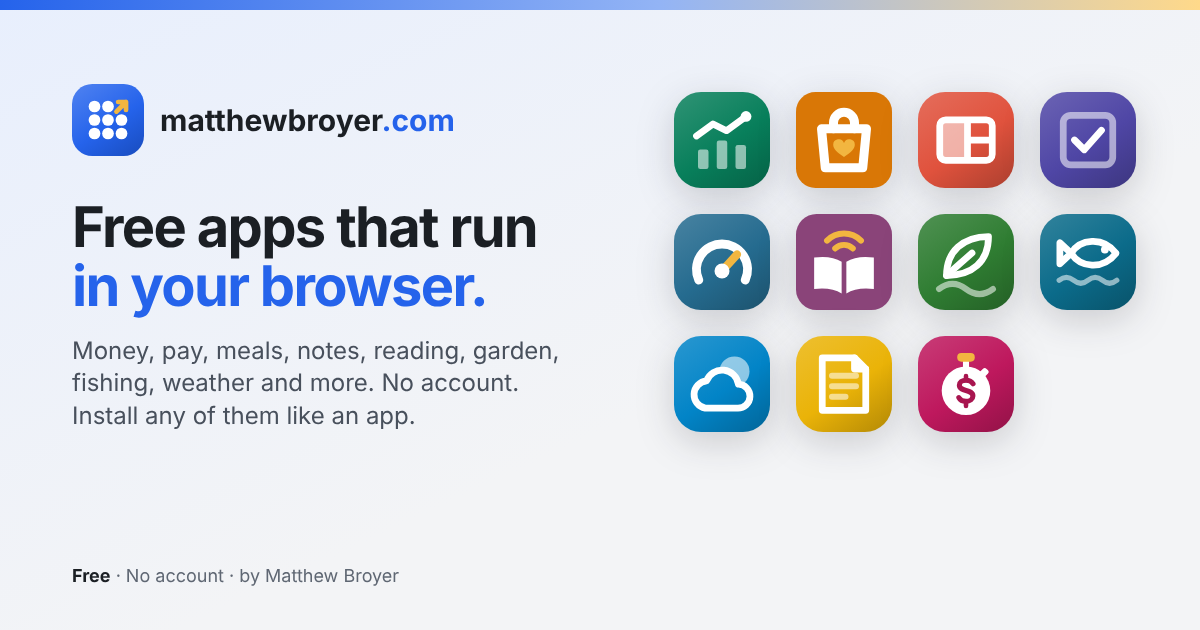
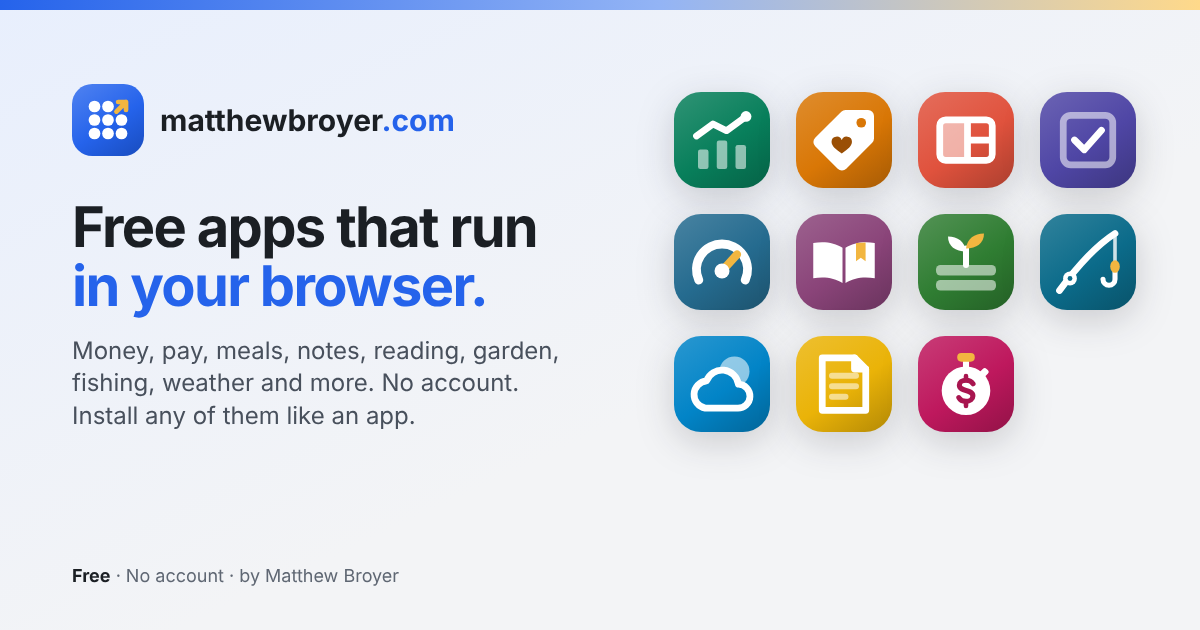
Add files via upload

diff --git a/index.html b/index.html
@@ -669,13 +669,13 @@ const APPS = [
 // Logos: each app's own favicon.svg, copied in (embedded so the hub never loads anything from the apps).
 const LOGOS = {
  mbmoney: `<svg viewBox="0 0 64 64" xmlns="http://www.w3.org/2000/svg"><defs><linearGradient id="mbmo-g1" gradientUnits="userSpaceOnUse" x1="10" y1="0" x2="54" y2="64"><stop offset="0" stop-color="#2b9172"/><stop offset=".55" stop-color="#087F5B"/><stop offset="1" stop-color="#066649"/></linearGradient><clipPath id="mbmo-c1"><rect width="64" height="64" rx="18"/></clipPath></defs><g clip-path="url(#mbmo-c1)"><rect width="64" height="64" fill="url(#mbmo-g1)"/><g transform="translate(0,2.3)"><rect x="16" y="36" width="7" height="13" rx="1.5" fill="#ffffff" fill-opacity="0.55"/><rect x="28.5" y="30" width="7" height="19" rx="1.5" fill="#ffffff" fill-opacity="0.55"/><rect x="41" y="33" width="7" height="16" rx="1.5" fill="#ffffff" fill-opacity="0.55"/><path d="M 15,27 26,19 35,23.5 48,14" stroke="#ffffff" stroke-width="4.5" stroke-linecap="round" stroke-linejoin="round" fill="none"/><circle cx="48" cy="14" r="3.5999999" fill="#ffffff"/></g></g></svg>`,
- mbwishlist: `<svg xmlns="http://www.w3.org/2000/svg" viewBox="0 0 64 64"><rect width="64" height="64" rx="13" fill="#D97706"/><g transform="translate(0,-0.02416552)"><path d="m 17,24.524164 h 30 l -2.5,26 h -25 z" fill="none" stroke="#fff" stroke-width="6" stroke-linecap="round" stroke-linejoin="round"/><path d="m 25,24.524164 v -4 a 7,7 0 0 1 14,0 v 4" fill="none" stroke="#fff" stroke-width="6" stroke-linecap="round" stroke-linejoin="round"/><path d="m 32,43.341388 c -4.6,-3 -7.2,-5.4 -7.2,-8.1 a 3.7,3.7 0 0 1 7.2,-1.2 3.7,3.7 0 0 1 7.2,1.2 c 0,2.7 -2.6,5.1 -7.2,8.1 z" fill="#f2b640"/></g></svg>`,
+ mbwishlist: `<svg xmlns="http://www.w3.org/2000/svg" viewBox="0 0 64 64"><defs><linearGradient id="mbwi-g1" gradientUnits="userSpaceOnUse" x1="10" y1="0" x2="54" y2="64"><stop offset="0" stop-color="#de8a29"/><stop offset=".55" stop-color="#D97706"/><stop offset="1" stop-color="#ae5f05"/></linearGradient><clipPath id="mbwi-c1"><rect width="64" height="64" rx="18"/></clipPath></defs><g clip-path="url(#mbwi-c1)"><rect width="64" height="64" fill="url(#mbwi-g1)"/><path d="M33 12h15a4 4 0 0 1 4 4v15a4 4 0 0 1-1.2 2.8L33.5 51.2a4 4 0 0 1-5.7 0L12.8 36.2a4 4 0 0 1 0-5.7L30.2 13.2A4 4 0 0 1 33 12z" fill="#fff"/> <circle cx="43.5" cy="20.5" r="3.2" fill="#D97706"/><path d="M30.5 41c-4.4-3-6.8-5.2-6.8-7.8a3.5 3.5 0 0 1 6.8-1.1 3.5 3.5 0 0 1 6.8 1.1c0 2.6-2.4 4.8-6.8 7.8z" fill="#9A4F05"/></g></svg>`,
  mbmealprep: `<svg viewBox="0 0 64 64" xmlns="http://www.w3.org/2000/svg"><defs><linearGradient id="mbme-g19" gradientUnits="userSpaceOnUse" x1="10" y1="0" x2="54" y2="64"><stop offset="0" stop-color="#e46a58"/><stop offset=".55" stop-color="#E0523D"/><stop offset="1" stop-color="#b34231"/></linearGradient><clipPath id="mbme-c19"><rect width="64" height="64" rx="18"/></clipPath></defs><g clip-path="url(#mbme-c19)"><rect width="64" height="64" fill="url(#mbme-g19)"/><rect x="14.5" y="18.5" width="35" height="27" rx="4" stroke="#ffffff" stroke-width="4.5" stroke-linecap="round" stroke-linejoin="round" fill="none"/><path d="M 33,19 V 45 M 33,32 H 49" stroke="#ffffff" stroke-width="4.5" stroke-linecap="round" stroke-linejoin="round" fill="none"/><rect x="16.151796" y="19.755266" width="15.855019" height="24.410162" rx="1.8294252" fill="#ffffff" fill-opacity="0.55" style="stroke-width:1.19065"/></g></svg>`,
  mbactionplan: `<svg viewBox="0 0 64 64" xmlns="http://www.w3.org/2000/svg"><defs><linearGradient id="mbac-g7" gradientUnits="userSpaceOnUse" x1="10" y1="0" x2="54" y2="64"><stop offset="0" stop-color="#6860b2"/><stop offset=".55" stop-color="#4F46A5"/><stop offset="1" stop-color="#3f3884"/></linearGradient><clipPath id="mbac-c7"><rect width="64" height="64" rx="18"/></clipPath></defs><g clip-path="url(#mbac-c7)"><rect width="64" height="64" fill="url(#mbac-g7)"/><rect x="15.5" y="15.5" width="33" height="33" rx="5" stroke="#fff" stroke-opacity=".55" stroke-width="4.5" fill="none"/><path d="m 23,32.000052 6.5,6.5 11.5,-13" stroke="#ffffff" stroke-width="4.5" stroke-linecap="round" stroke-linejoin="round" fill="none"/></g></svg>`,
  mbauto: `<svg xmlns="http://www.w3.org/2000/svg" viewBox="0 0 64 64"><defs><linearGradient id="g" gradientUnits="userSpaceOnUse" x1="10" y1="0" x2="54" y2="64"><stop offset="0" stop-color="#44809f"/><stop offset=".55" stop-color="#256B8F"/><stop offset="1" stop-color="#1e5672"/></linearGradient><clipPath id="c"><rect width="64" height="64" rx="18"/></clipPath></defs><g clip-path="url(#c)"><rect width="64" height="64" fill="url(#g)"/><path d="m 16.5,43.990999 a 17,17 0 1 1 31,0" fill="none" stroke="#fff" stroke-width="6" stroke-linecap="round" stroke-linejoin="round"/><path d="m 32,37.990999 10,-11" fill="none" stroke="#F2B640" stroke-width="5.5" stroke-linecap="round"/><circle cx="32" cy="37.990997" r="5" fill="#fff"/></g></svg>`,
- mbreading: `<svg viewBox="0 0 28 28" version="1.1" id="svg3" sodipodi:docname="favicon.svg" inkscape:version="1.4.2 (f4327f4, 2025-05-13)" xmlns:inkscape="http://www.inkscape.org/namespaces/inkscape" xmlns:sodipodi="http://sodipodi.sourceforge.net/DTD/sodipodi-0.dtd" xmlns="http://www.w3.org/2000/svg" xmlns:svg="http://www.w3.org/2000/svg"> <defs id="defs3" /> <sodipodi:namedview id="namedview3" pagecolor="#ffffff" bordercolor="#000000" borderopacity="0.25" inkscape:showpageshadow="2" inkscape:pageopacity="0.0" inkscape:pagecheckerboard="0" inkscape:deskcolor="#d1d1d1" inkscape:zoom="28.821429" inkscape:cx="14" inkscape:cy="14" inkscape:window-width="1920" inkscape:window-height="1009" inkscape:window-x="-8" inkscape:window-y="-8" inkscape:window-maximized="1" inkscape:current-layer="svg3" /> <rect width="28" height="28" rx="6" fill="#8a4479" id="rect1" /> <g transform="matrix(0.9167,0,0,0.9167,2.9996,4.3727814)" id="g3"> <path d="M 11.25,10.4 C 9.1,9 5.8,8.6 2.5,9.1 v 10 c 3.3,-0.5 6.6,0 8.75,1.4 z" fill="#ffffff" id="path1" /> <path d="M 12.75,10.4 C 14.9,9 18.2,8.6 21.5,9.1 v 10 c -3.3,-0.5 -6.6,0 -8.75,1.4 z" fill="#ffffff" id="path2" /> <path d="m 9.2,6.2 a 4,4 0 0 1 5.6,0 M 6.6,3.7 a 7.6,7.6 0 0 1 10.8,0" fill="none" stroke="#f2b640" stroke-width="1.9" stroke-linecap="round" id="path3" /> </g> </svg>`,
- mbgardening: `<svg xmlns="http://www.w3.org/2000/svg" viewBox="0 0 64 64"><defs><linearGradient id="g1" gradientUnits="userSpaceOnUse" x1="10" y1="0" x2="54" y2="64"><stop offset="0" stop-color="#4c8f4f"/><stop offset=".55" stop-color="#2F7D32"/><stop offset="1" stop-color="#266428"/></linearGradient><clipPath id="c1"><rect width="64" height="64" rx="18"/></clipPath></defs><g clip-path="url(#c1)"><rect width="64" height="64" fill="url(#g1)"/><path d="M14 50c6-4.5 12-4.5 18 0s12 4.5 18 0" stroke="#fff" stroke-opacity=".55" stroke-width="4" stroke-linecap="round" fill="none"/><path d="M19 41C19 25 30 15 47 15C47 32 36 41 19 41Z" stroke="#fff" stroke-width="4.5" stroke-linecap="round" stroke-linejoin="round" fill="none"/><path d="M19 41L36 26" stroke="#fff" stroke-width="4.5" stroke-linecap="round" stroke-linejoin="round" fill="none"/></g></svg>`,
- mbfishing: `<svg viewBox="0 0 64 64" xmlns="http://www.w3.org/2000/svg"><defs><linearGradient id="mbfi-g1" gradientUnits="userSpaceOnUse" x1="10" y1="0" x2="54" y2="64"><stop offset="0" stop-color="#2d809a"/><stop offset=".55" stop-color="#0B6B8A"/><stop offset="1" stop-color="#09566e"/></linearGradient><clipPath id="mbfi-c1"><rect width="64" height="64" rx="18"/></clipPath></defs><g clip-path="url(#mbfi-c1)"><rect width="64" height="64" fill="url(#mbfi-g1)"/><g transform="translate(0,-5.8128604)"><path transform="translate(0.8,-1.5)" d="m 12,51.5 c 3.2,-2.6 6.4,-2.6 9.6,0 3.2,2.6 6.4,2.6 9.6,0 3.2,-2.6 6.4,-2.6 9.6,0 3.2,2.6 6.4,2.6 9.6,0" stroke="#ffffff" stroke-opacity="0.55" stroke-width="3.5" stroke-linecap="round" fill="none"/><g transform="translate(0.75)"><path d="m 20,32 c 6,-9.5 21,-11.5 30,0 -9,11.5 -24,9.5 -30,0 z" stroke="#ffffff" stroke-width="4.5" stroke-linecap="round" stroke-linejoin="round" fill="none"/><path d="M 20,32 12.5,25 V 39 Z" stroke="#ffffff" stroke-width="4.5" stroke-linecap="round" stroke-linejoin="round" fill="none"/><circle cx="42.5" cy="29.5" r="2.5999999" fill="#ffffff"/></g></g></g></svg>`,
+ mbreading: `<svg xmlns="http://www.w3.org/2000/svg" viewBox="0 0 64 64"><defs><linearGradient id="mbre-g1" gradientUnits="userSpaceOnUse" x1="10" y1="0" x2="54" y2="64"><stop offset="0" stop-color="#9a5e8c"/><stop offset=".55" stop-color="#8A4479"/><stop offset="1" stop-color="#6e3661"/></linearGradient><clipPath id="mbre-c1"><rect width="64" height="64" rx="18"/></clipPath></defs><g clip-path="url(#mbre-c1)"><rect width="64" height="64" fill="url(#mbre-g1)"/><path d="M31 22.5C26 19 18.5 18 11.5 19.3v23.5c7-1.3 14.5-.3 19.5 3.2z" fill="#fff"/><path d="M33 22.5c5-3.5 12.5-4.5 19.5-3.2v23.5c-7-1.3-14.5-.3-19.5 3.2z" fill="#fff"/> <path d="M40 19.4V31.5l3.2-2.4 3.2 2.4V19" fill="#F2B640"/></g></svg>`,
+ mbgardening: `<svg xmlns="http://www.w3.org/2000/svg" viewBox="0 0 64 64"><defs><linearGradient id="mbga-g1" gradientUnits="userSpaceOnUse" x1="10" y1="0" x2="54" y2="64"><stop offset="0" stop-color="#4f9051"/><stop offset=".55" stop-color="#2F7D32"/><stop offset="1" stop-color="#266428"/></linearGradient><clipPath id="mbga-c1"><rect width="64" height="64" rx="18"/></clipPath></defs><g clip-path="url(#mbga-c1)"><rect width="64" height="64" fill="url(#mbga-g1)"/><rect x="12" y="34" width="40" height="7" rx="3" fill="#fff" fill-opacity=".55"/><rect x="12" y="44" width="40" height="7" rx="3" fill="#fff" fill-opacity=".55"/><path d="M32 34V23" stroke="#fff" stroke-width="4" stroke-linecap="round"/><path d="M32 25c-.8-6.5-5.5-10-12-10 0 6.5 5 10 12 10z" fill="#fff"/><path d="M32 23c.8-6.5 5.5-10 12-10 0 6.5-5 10-12 10z" fill="#F2B640"/></g></svg>`,
+ mbfishing: `<svg xmlns="http://www.w3.org/2000/svg" viewBox="0 0 64 64"><defs><linearGradient id="mbfi-g1" gradientUnits="userSpaceOnUse" x1="10" y1="0" x2="54" y2="64"><stop offset="0" stop-color="#2d809a"/><stop offset=".55" stop-color="#0B6B8A"/><stop offset="1" stop-color="#09566e"/></linearGradient><clipPath id="mbfi-c1"><rect width="64" height="64" rx="18"/></clipPath></defs><g clip-path="url(#mbfi-c1)"><rect width="64" height="64" fill="url(#mbfi-g1)"/><path d="M13 51C24 36 36 22 50 13" fill="none" stroke="#fff" stroke-width="4.5" stroke-linecap="round"/><circle cx="20" cy="43" r="4.6" fill="#fff"/><circle cx="20" cy="43" r="1.6" fill="#0B6B8A"/> <path d="M50 13v23" stroke="#fff" stroke-opacity=".8" stroke-width="2.4"/><path d="M50 38v5.5a4 4 0 0 1-8 0" fill="none" stroke="#fff" stroke-width="3.4" stroke-linecap="round"/><ellipse cx="50" cy="35" rx="3.2" ry="4.2" fill="#F2B640"/></g></svg>`,
  mbweather: `<svg viewBox="0 0 64 64" xmlns:xlink="http://www.w3.org/1999/xlink" xmlns="http://www.w3.org/2000/svg"><defs><linearGradient id="mbwe-g25" gradientUnits="userSpaceOnUse" x1="10" y1="0" x2="54" y2="64"><stop offset="0" stop-color="#2595cf"/><stop offset=".55" stop-color="#0284C7"/><stop offset="1" stop-color="#026a9f"/></linearGradient><clipPath id="mbwe-c25"><rect width="64" height="64" rx="18"/></clipPath><linearGradient xlink:href="#mbwe-g25" id="mbwe-linearGradient5" gradientUnits="userSpaceOnUse" x1="10" y1="0" x2="54" y2="64"/></defs><g clip-path="url(#mbwe-c25)"><rect width="64" height="64" fill="url(#mbwe-g25)"/><g transform="translate(-0.66503232,1.1221731)"><circle cx="41" cy="22.5" r="10" fill="#ffffff" fill-opacity="0.55"/><path d="M 21.5,47 H 43 A 8.005623,8.005623 0 0 0 43.6,31 11,11 0 0 0 22.4,28.8 9.2,9.2 0 0 0 21.5,47 Z" fill="url(#mbwe-g25)" stroke="#ffffff" stroke-width="4.5" stroke-linecap="round" stroke-linejoin="round" style="fill:url(#mbwe-linearGradient5)"/></g></g></svg>`,
  mbnotes: `<svg xmlns="http://www.w3.org/2000/svg" viewBox="0 0 64 64"><defs><linearGradient id="nfav-g" gradientUnits="userSpaceOnUse" x1="10" y1="0" x2="54" y2="64"><stop offset="0" stop-color="#edbe2b"/><stop offset=".55" stop-color="#EAB308"/><stop offset="1" stop-color="#bb8f06"/></linearGradient><clipPath id="nfav-c"><rect width="64" height="64" rx="18"/></clipPath></defs><g clip-path="url(#nfav-c)"><rect width="64" height="64" fill="url(#nfav-g)"/><path d="M24 26.5h16M24 33.5h16M24 40.5h9" stroke="#fff" stroke-opacity=".55" stroke-width="4" stroke-linecap="round" fill="none"/><path d="M17.5 14.5h21.5l7.5 7.5v27.5h-29z" stroke="#fff" stroke-width="4.5" stroke-linecap="round" stroke-linejoin="round" fill="none"/><path d="M39 14.5v7.5h7.5" stroke="#fff" stroke-width="4.5" stroke-linecap="round" stroke-linejoin="round" fill="none"/></g></svg>`,
  mbpayday: `<svg xmlns="http://www.w3.org/2000/svg" viewBox="0 0 64 64"><defs><linearGradient id="pdg" gradientUnits="userSpaceOnUse" x1="10" y1="0" x2="54" y2="64"><stop offset="0" stop-color="#C73874"/><stop offset=".55" stop-color="#BE185D"/><stop offset="1" stop-color="#98134A"/></linearGradient><clipPath id="pdc"><rect width="64" height="64" rx="18"/></clipPath></defs><g clip-path="url(#pdc)"><rect width="64" height="64" fill="url(#pdg)"/><g transform="translate(3.2 3.6) scale(.9)"><rect x="29.75" y="13" width="4.5" height="6.5" fill="#fff"/><rect x="25.5" y="8.5" width="13" height="6.5" rx="3" fill="#F2B640"/><rect x="42.13" y="19.57" width="5.2" height="8.4" rx="2" fill="#fff" transform="rotate(45 44.73 23.77)"/><circle cx="32" cy="36.5" r="18" fill="#fff"/><path d="M32 25.6v3.2M32 44.6v3.2" stroke="#A8154F" stroke-width="3.4" stroke-linecap="round"/><path d="M37.2 31.4C36.2 29.7 34.3 28.8 32 28.8 29.2 28.8 27.1 30.3 27.1 32.5 27.1 37.4 37.1 35.2 37.1 40.4 37.1 42.7 34.9 44.4 32 44.4 29.5 44.4 27.6 43.4 26.7 41.6" fill="none" stroke="#A8154F" stroke-width="3.8" stroke-linecap="round" stroke-linejoin="round"/></g></g></svg>`,
@@ -770,7 +770,7 @@ function renderApps() {
   <div class="cardFooter">
    <div class="cardMeta" title="${statusLabel(a)}">
     <span class="liveDot ${s.state}" aria-hidden="true"></span>
-    <span class="domain">${esc(a.domain)}™</span>
+    <span class="domain">${esc(a.domain)}</span>
     ${s.state === "offline" ? `<span class="liveNote bad">Unreachable</span>` : s.state === "checking" ? `<span class="liveNote">Checking…</span>` : `<span class="vh">${statusLabel(a)}</span>`}
    </div>
    <div class="footerActions">
